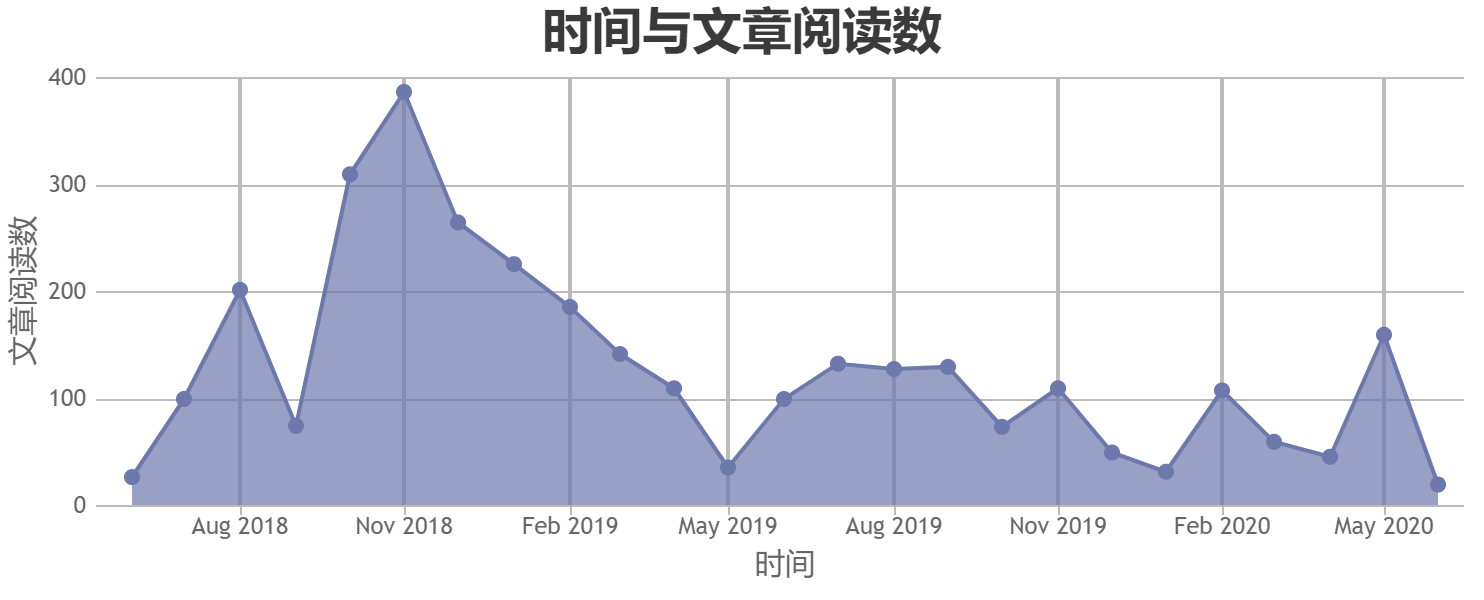
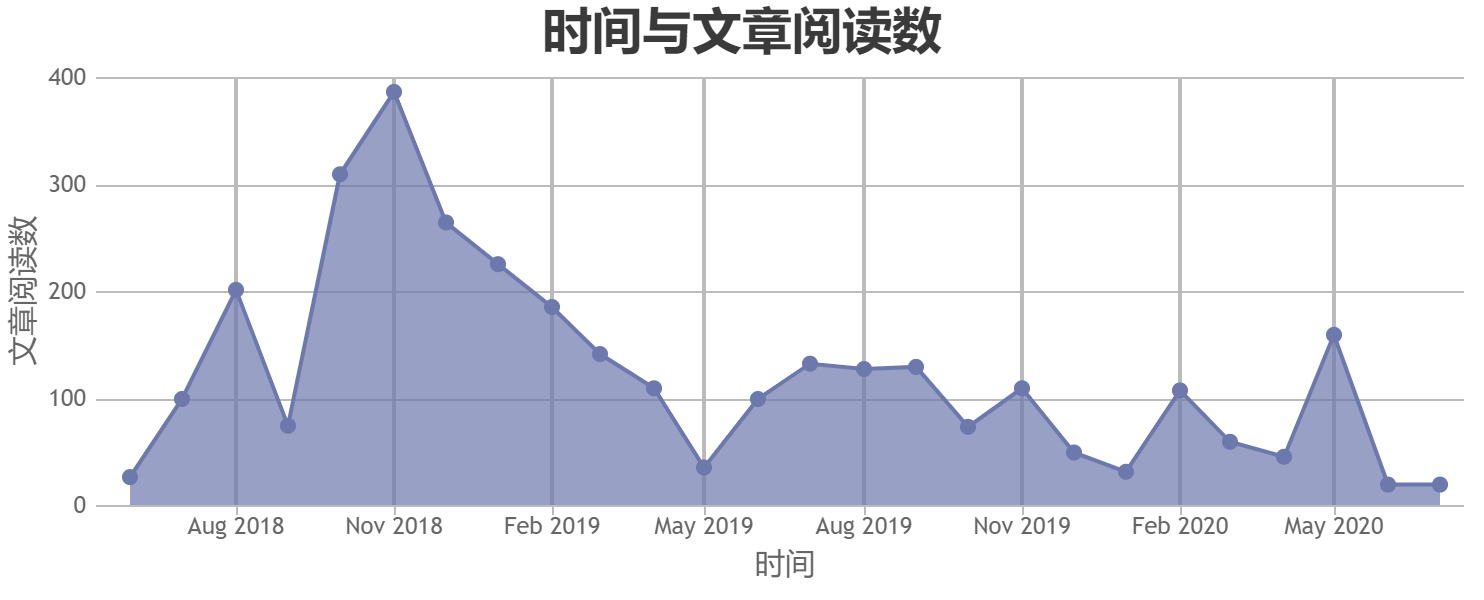
2020-7-1

Changed region(s): [[0.124, 0.12, 0.9919, 0.81], [0.341, 0.84, 0.9609, 0.9], [0.124, 0.84, 0.31, 0.9]]

diff --git a/index.html b/index.html
@@ -50,6 +50,7 @@
                         { x: new Date(2020, 3), y: 46 },
                         { x: new Date(2020, 4), y: 160 },
                         { x: new Date(2020, 5), y: 20 },
+                        { x: new Date(2020, 6), y: 20 },
                     ]
                 }]
             });

diff --git a/number.py b/number.py
@@ -8,10 +8,10 @@ Created on Fri Sep 14 09:12:16 2018
 import matplotlib.pyplot as plt
 date=['2018-5','2018-6','2018-7','2018-8','2018-9','2018-10','2018-11','2018-12',
     '2019-1','2019-2','2019-3','2019-4','2019-5','2019-6','2019-7','2019-8','2019-9','2019-10','2019-11','2019-12',
-    '2020-1','2020-2','2020-3','2020-4','2020-5']
+    '2020-1','2020-2','2020-3','2020-4','2020-5','2020-6']
 number=[27,100,202,75,310,387,265,226,
         186,142,110,36,100,133,128,130,74,110,50,32,
-        108,60,46,160,20]
+        108,60,46,160,20,20]
 print("total number: ",sum(number))
 
 plt.figure(figsize=(10,10))

diff --git a/README.md b/README.md
@@ -2,11 +2,14 @@
 若想看根据分类排序 [good-articlles-by-sort](https://github.com/zhang0peter/good-articles-by-sort)         
 ![number](number.png)            
 
-共3217篇文章        
+共3237篇文章        
 
-## 2020-6
+## 2020-7
 *   []()
 *   []()
+
+## 2020-6  共20篇
+*   [**浅谈 CAP 和 Paxos 共识算法 - 知乎**](https://zhuanlan.zhihu.com/p/106465473)
 *   [**GitHub Chrome 插件推荐**](https://mp.weixin.qq.com/s/NSbzGSFgzb44HS2vyiXM9A)
 *   [Clash(R) for Windows 教程 | 可能是Windows上最好用的代理工具 - Sabrina的万事屋](https://merlinblog.xyz/wiki/cfw.html)
 *   [rocksdb sst index&filter](https://bravoboy.github.io/2018/09/30/sstindex/)
